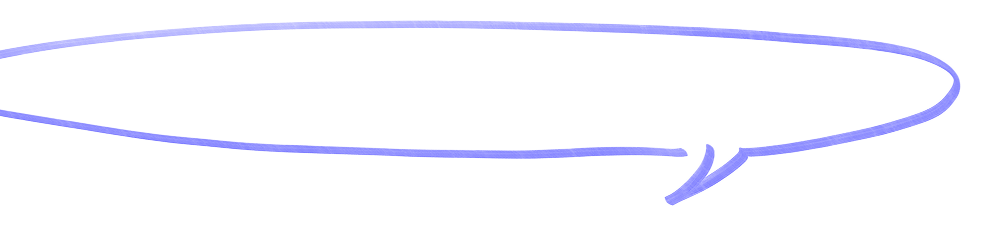
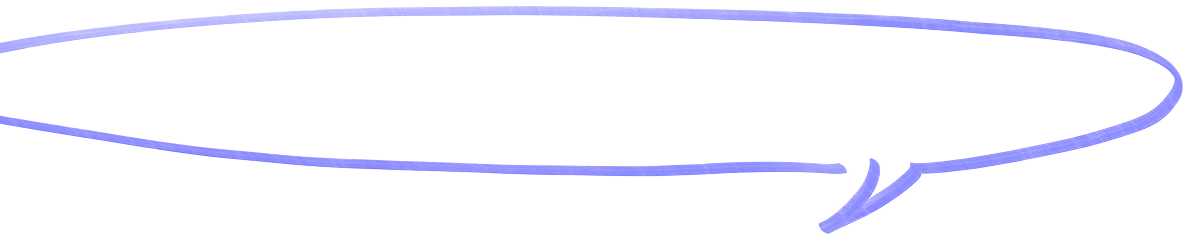
contact_responsiv_display

Changed region(s): [[0.0, 0.0, 0.992, 0.9277]]

diff --git a/src/views/ContactView.vue b/src/views/ContactView.vue
@@ -1,10 +1,29 @@
 <script setup>
+import { ref, computed, onMounted, onUnmounted } from 'vue'
 import CopyMailCom from "@/components/universal/CopyMailCom.vue";
+
+const isSmallScreen = ref(window.matchMedia('(min-width: 640px)').matches)
+
+const updateScreenSize = () => {
+  isSmallScreen.value = window.matchMedia('(min-width: 640px)').matches
+}
+
+onMounted(() => {
+  window.addEventListener('resize', updateScreenSize)
+})
+
+onUnmounted(() => {
+  window.removeEventListener('resize', updateScreenSize)
+})
+
+const imageSrc = computed(() => {
+  return isSmallScreen.value ? '/images/scribbles/contact/scribbleDisplayBubbleWide.png' : '/images/scribbles/contact/scribbleBubbleSmall.png'
+})
 </script>
 <template>
     <div class="grid  h-full bg-lightContrast pt-[10%] content-start sm:h-screen">
-        <h2 class="mt-[10%] ml-[4%] font-trispace text-3xl/6 text-darkest w-[360px]">Let’s <img src="/images/scribbles/contact/scribbleShare.png" class="w-[140px] inline ml-[-20px]"><span class="ml-[-120px]">share</span></img> ideas and get creative.</h2>
-        <img src="/images/scribbles/contact/scribbleBubbleSmall.png" class="w-[100%] mt-[-30%]">
+        <h2 class="mt-[10%] ml-[4%] sm:pr-[4%] font-trispace text-3xl/6 text-darkest w-[360px] lg:text-displayContact sm:w-full  lg:max-w-[84%]">Let’s <img src="/images/scribbles/contact/scribbleShare.png" class="w-[140px] inline ml-[-20px] sm:w-[200px]"><span class="ml-[-120px] sm:ml-[-180px]">share</span></img> ideas and get creative.</h2>
+        <img :src="imageSrc" class="w-[100%] mt-[-30%] lg:w-[84%]">
 
     
         <div class="grid font-trispace text-darkest text-base/8 mt-[-10%]">

diff --git a/tailwind.config.js b/tailwind.config.js
@@ -24,7 +24,16 @@ export default {
         displaySizeMobile: '2.3rem',
         contextSizeMobile: '0.85rem',
         contactSizeWeb: '2.3rem',
+        displayContact: '2.6rem',
 
+      },
+      screens: {
+        'xs': '375px',
+        'sm': '640px',
+        'md': '768px',
+        'lg': '1024px',
+        'xl': '1280px',
+        '2xl': '1536px',
       },
     },
     
